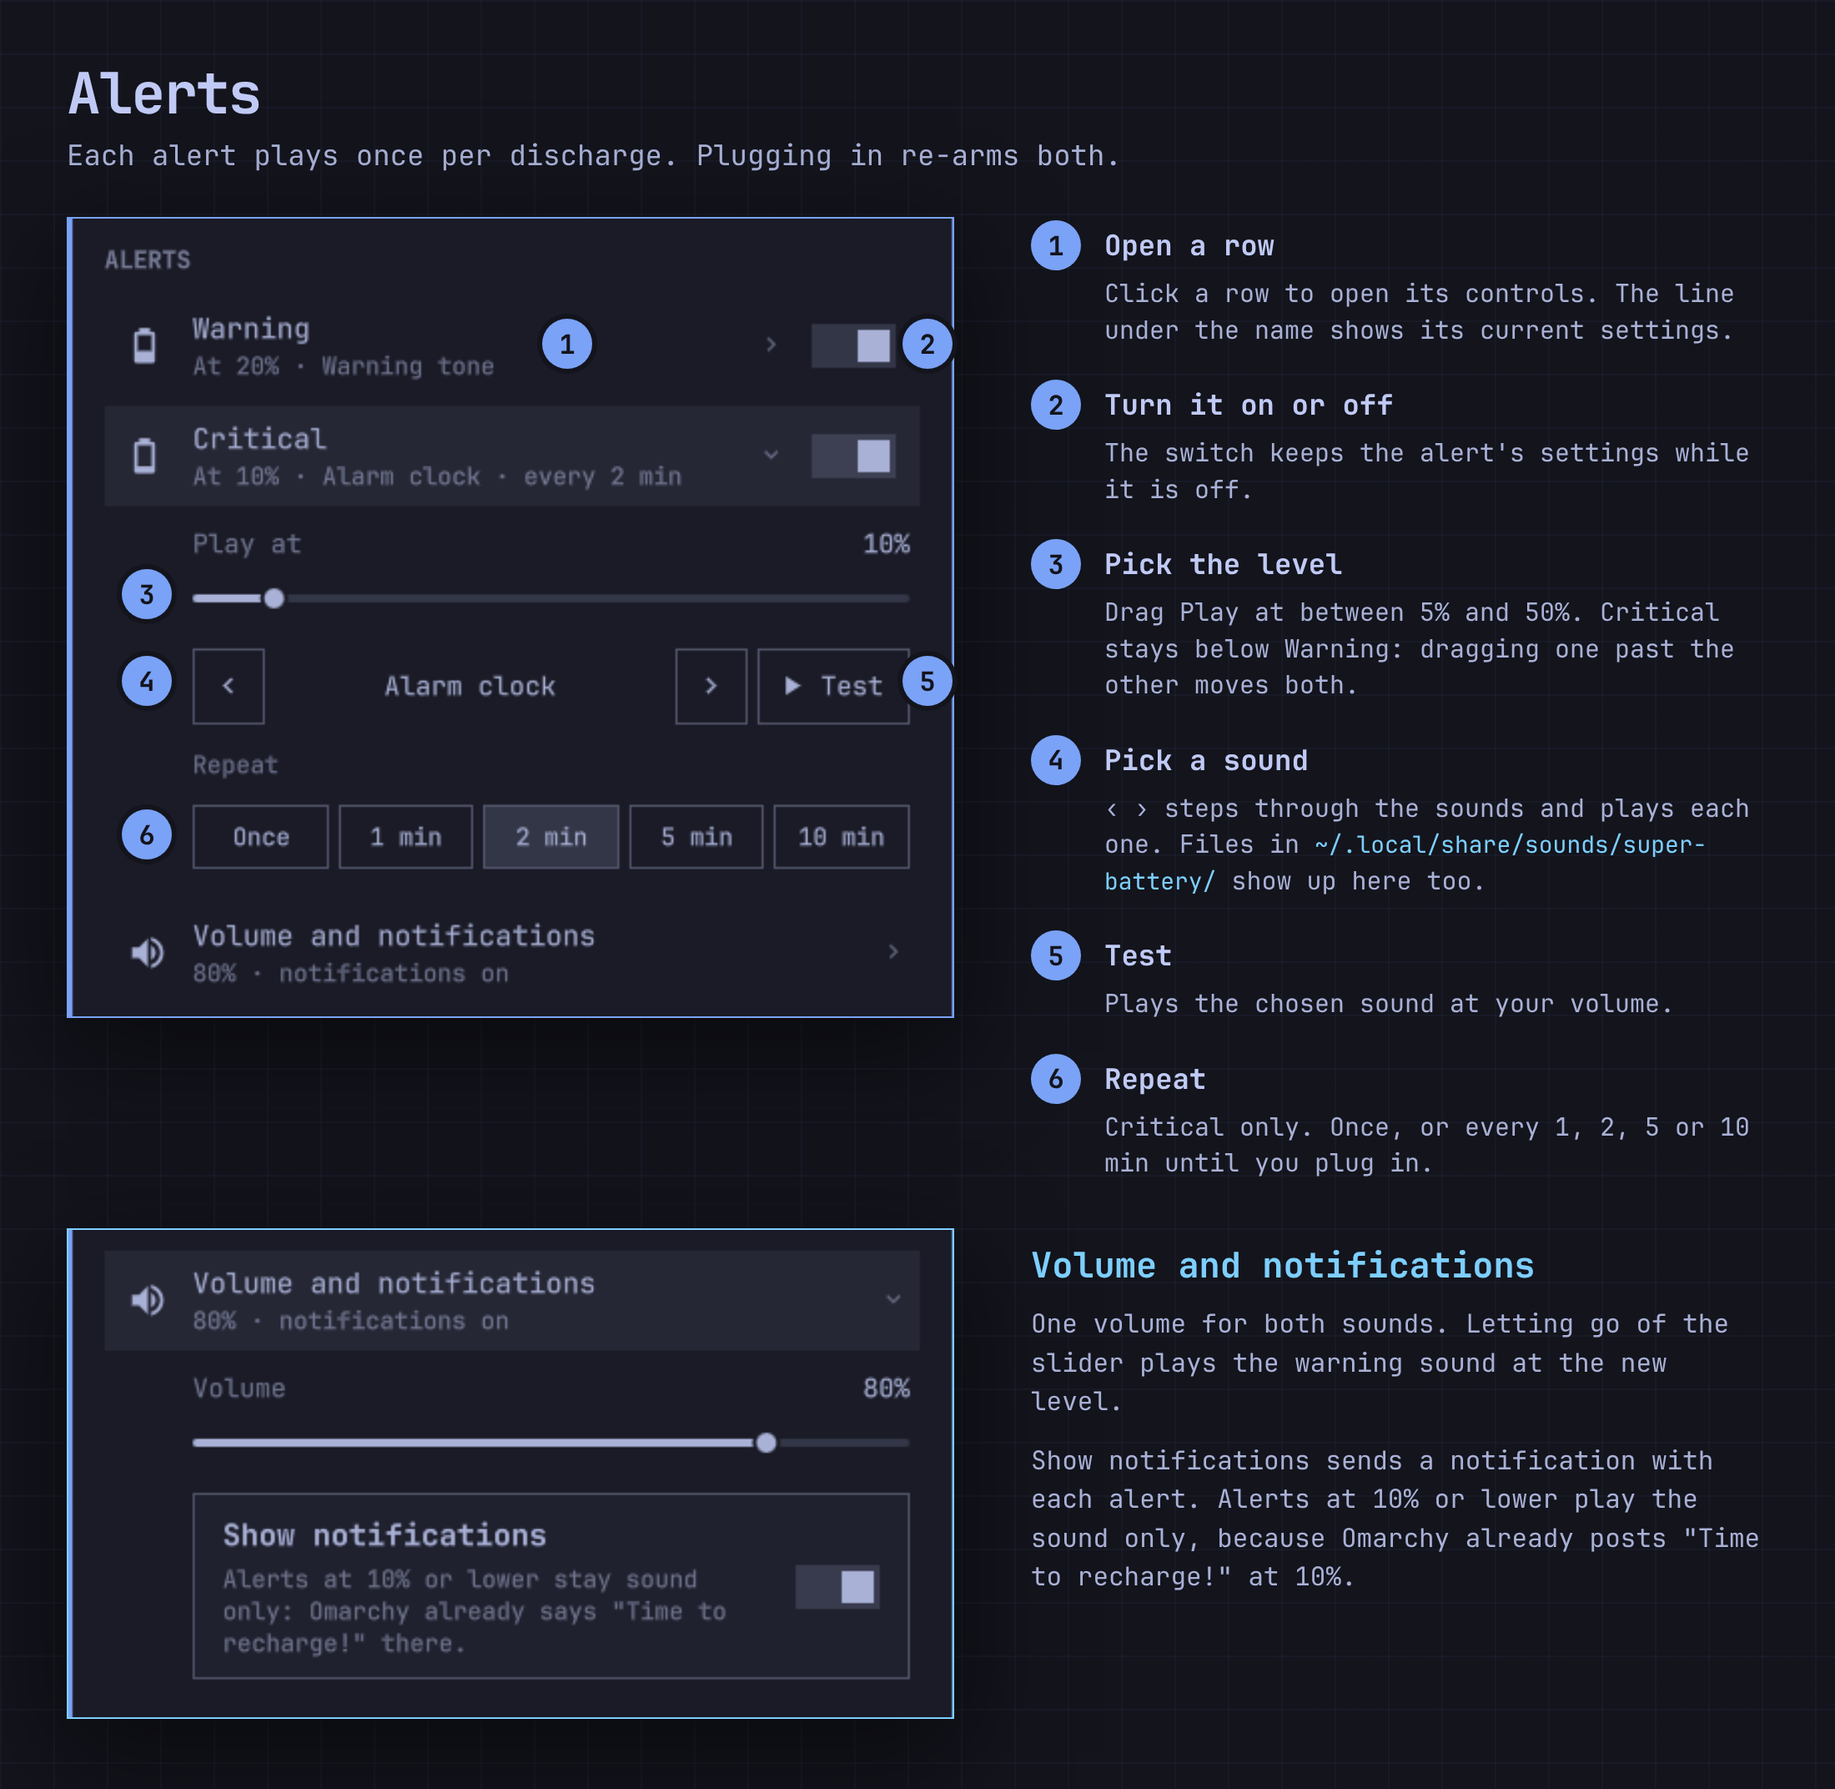
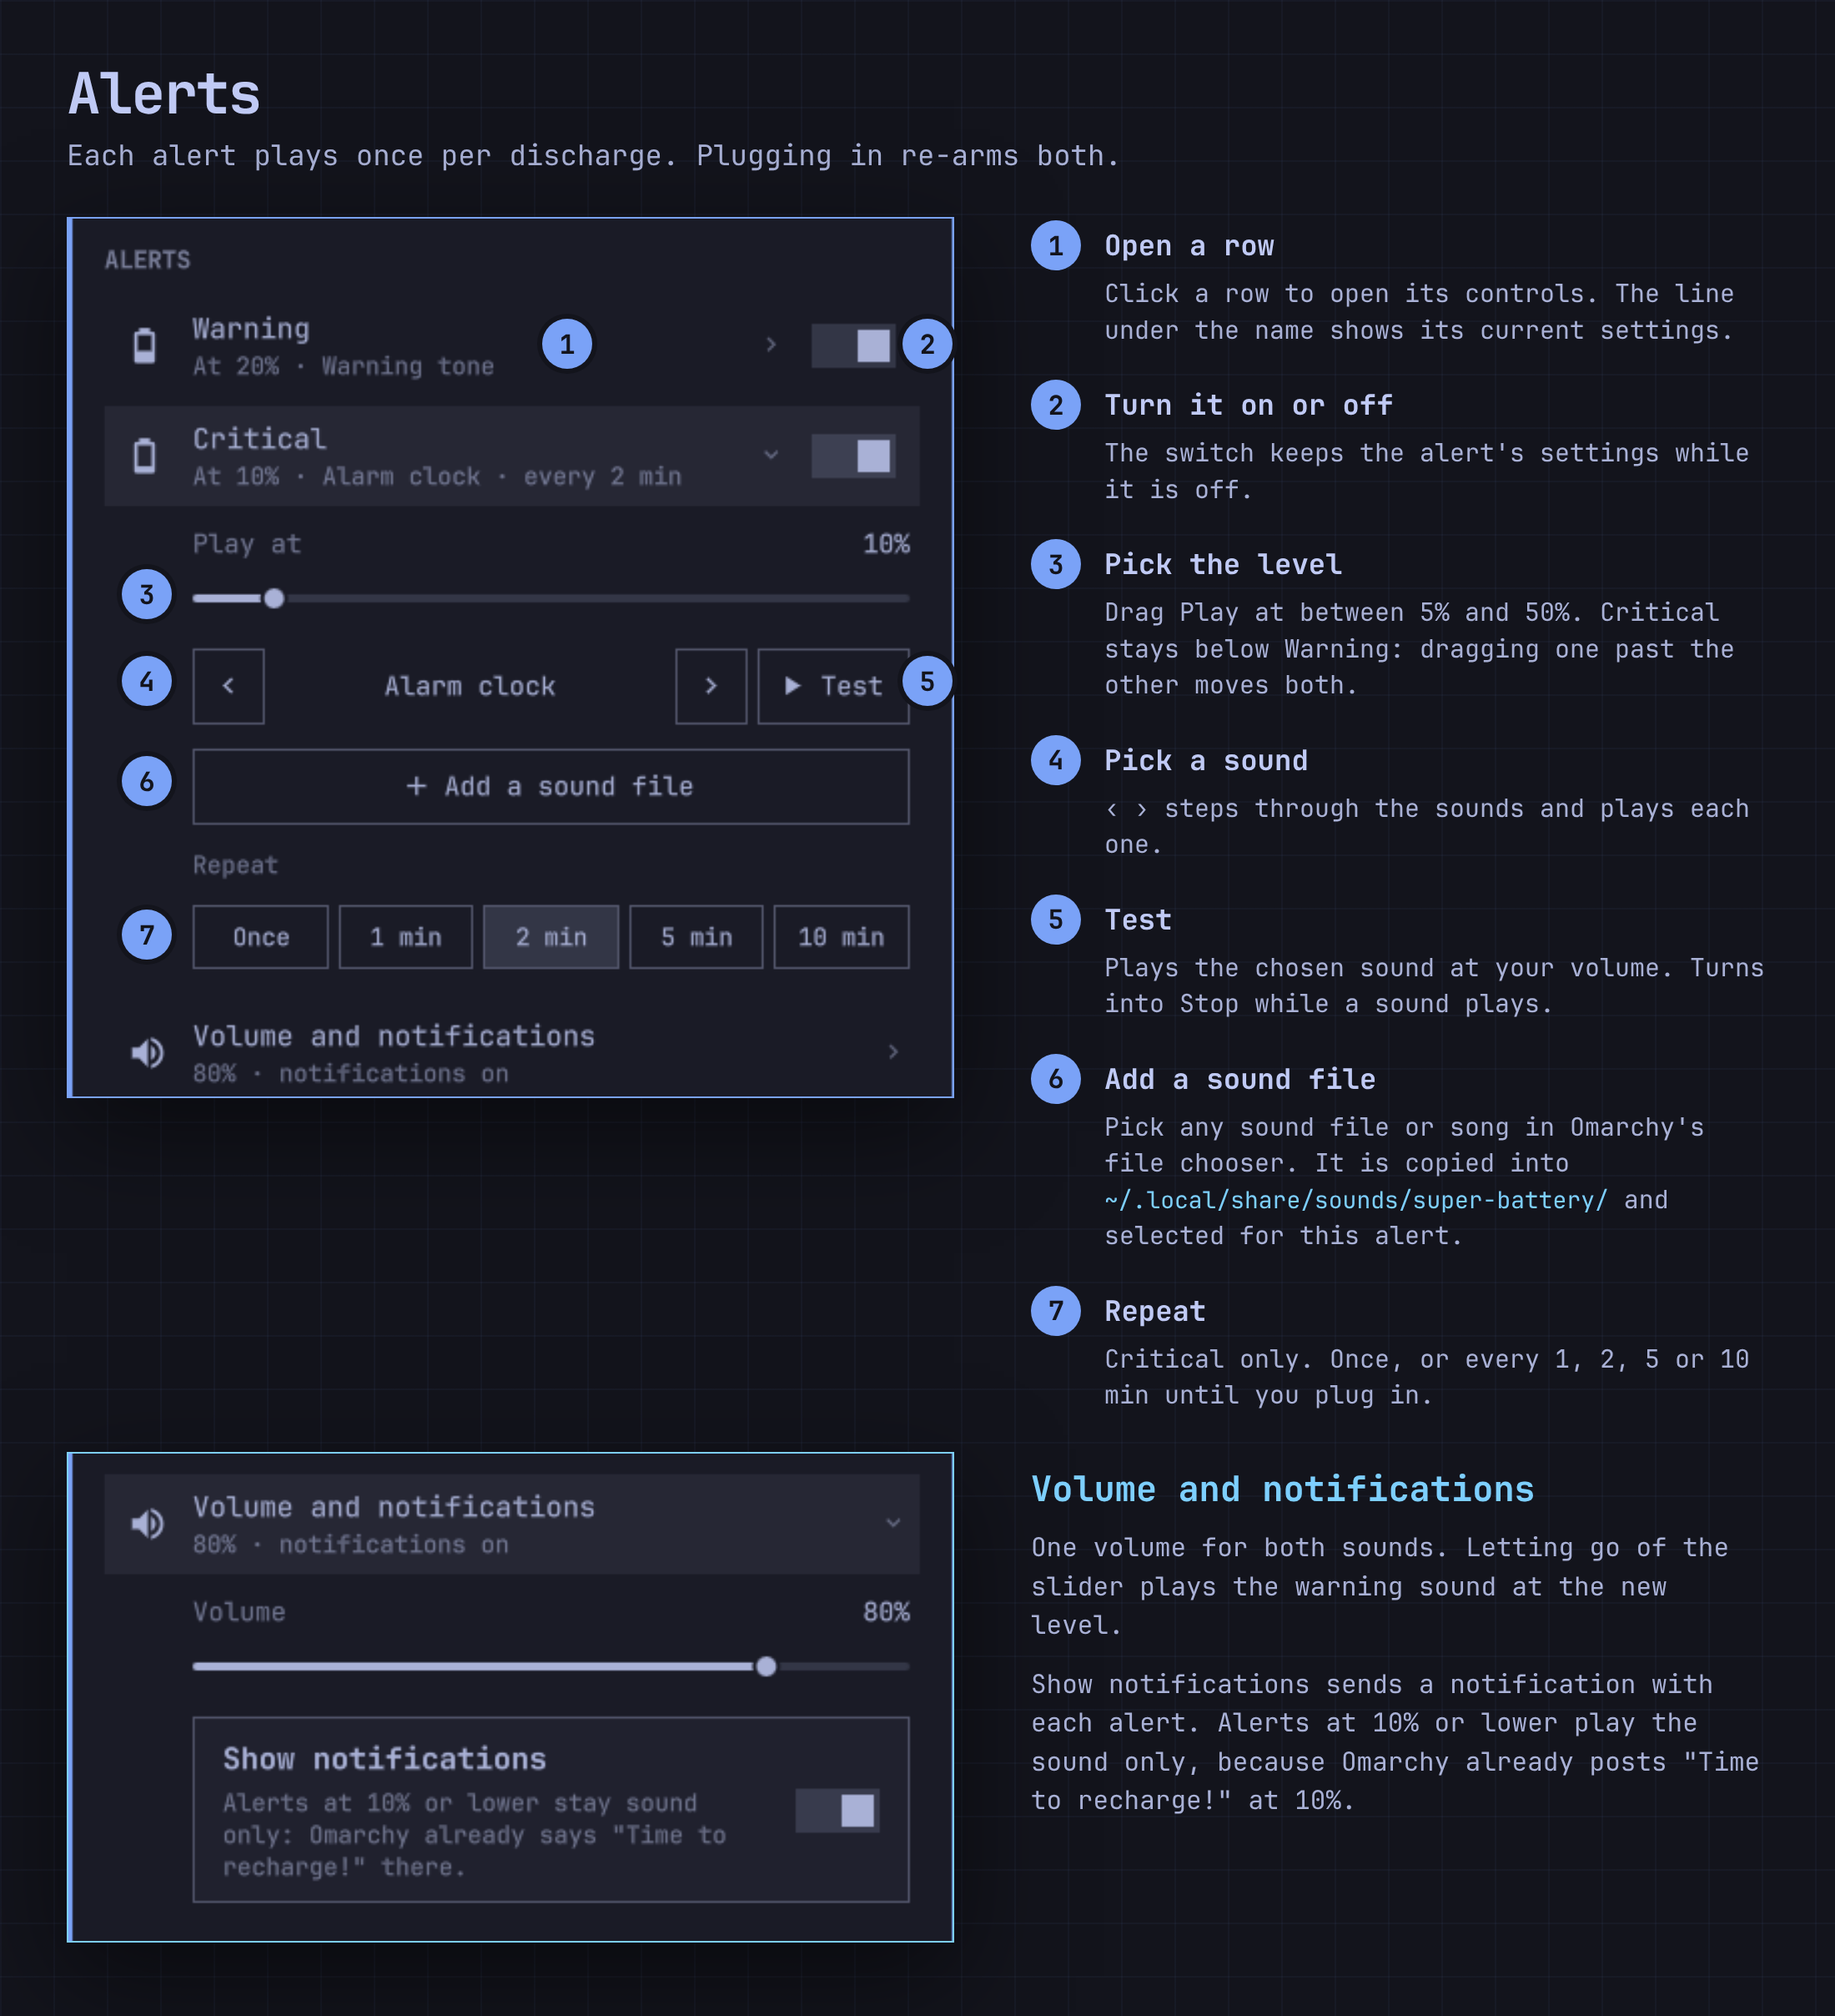
Show the Add a sound file button in the images and descriptions
- preview.png: a callout for your own sounds
- docs/alerts.png: the button and the Test/Stop toggle in the legend
- README, manifest and repo descriptions mention your own sounds
- Version 0.2.0

diff --git a/README.md b/README.md
@@ -1,8 +1,8 @@
 # Super Battery for Omarchy
 
-Omarchy's battery popup, plus low battery alerts with sounds, an automatic
-power saver, and a charge limit. Every setting is in the popup itself: click
-the battery in the bar.
+Omarchy's battery popup, plus low battery alerts that play built-in sounds
+or your own files (songs too), an automatic power saver, and a charge limit.
+Every setting is in the popup itself: click the battery in the bar.
 
 ![The Super Battery popup with callouts for each section](preview.png)
 
